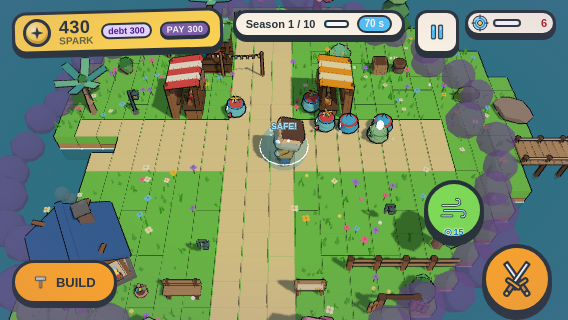
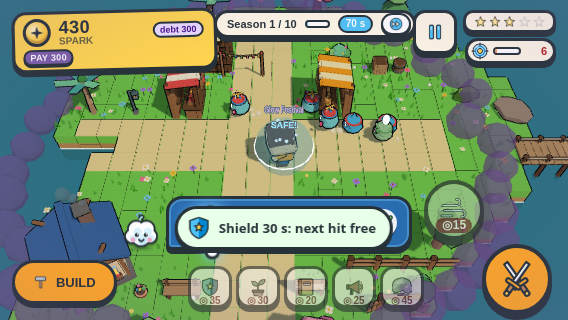
S68: Dash Focus price 12px bubble, strip prices 10px, nofocus dim on Dash

diff --git a/LUMEN/game/ui/touch.css b/LUMEN/game/ui/touch.css
@@ -108,8 +108,12 @@ body.is-touch .help { display: none; }
 .ll-touch-btn.dash .ll-touch-ico, .ll-touch-btn.dash .ll-touch-lab { position: relative; z-index: 1; }
 
 /* S67: Focus price on every touch power chip + the Dash button; dim when Focus is below it */
-.ll-touch-ab-fc { position: absolute; left: 0; right: 0; bottom: -1px; text-align: center; font-style: normal; font-size: 9px; font-weight: 900; line-height: 1; color: #0277BD; z-index: 2; text-shadow: 0 0 2px #FFF8E7, 0 0 2px #FFF8E7, 0 0 2px #FFF8E7; pointer-events: none; }
+.ll-touch-ab-fc { position: absolute; left: 0; right: 0; bottom: -1px; text-align: center; font-style: normal; font-size: 10px; font-weight: 900; line-height: 1; color: #0277BD; z-index: 2; text-shadow: 0 0 2px #FFF8E7, 0 0 2px #FFF8E7, 0 0 2px #FFF8E7; pointer-events: none; }
 .ll-touch-ab-fc::before { content: '\25CE'; margin-right: 1px; }
+/* S68: Dash price was 9px on a green disc - now a readable 12px bubble (white on ink) so a phone thumb sees what the power costs */
+.ll-touch-btn.dash .ll-touch-ab-fc { left: 50%; right: auto; bottom: 3px; transform: translateX(-50%); font-size: 12px; padding: 1px 6px 2px; border-radius: 9px; background: var(--ink, #3b2f2f); color: #fff; text-shadow: none; white-space: nowrap; }
+.ll-touch-btn.dash.nofocus .ll-touch-ab-fc { background: #C62828; color: #fff; }
+.ll-touch-btn.dash.nofocus { opacity: .7; filter: saturate(.4); }
 .ll-touch-ab.nofocus:not(.locked) { opacity: .6; filter: saturate(.35); }
 .ll-touch-ab.nofocus:not(.locked) .ll-touch-ab-fc { color: #C62828; }
 .ll-touch-ab.locked .ll-touch-ab-fc { display: none; }
